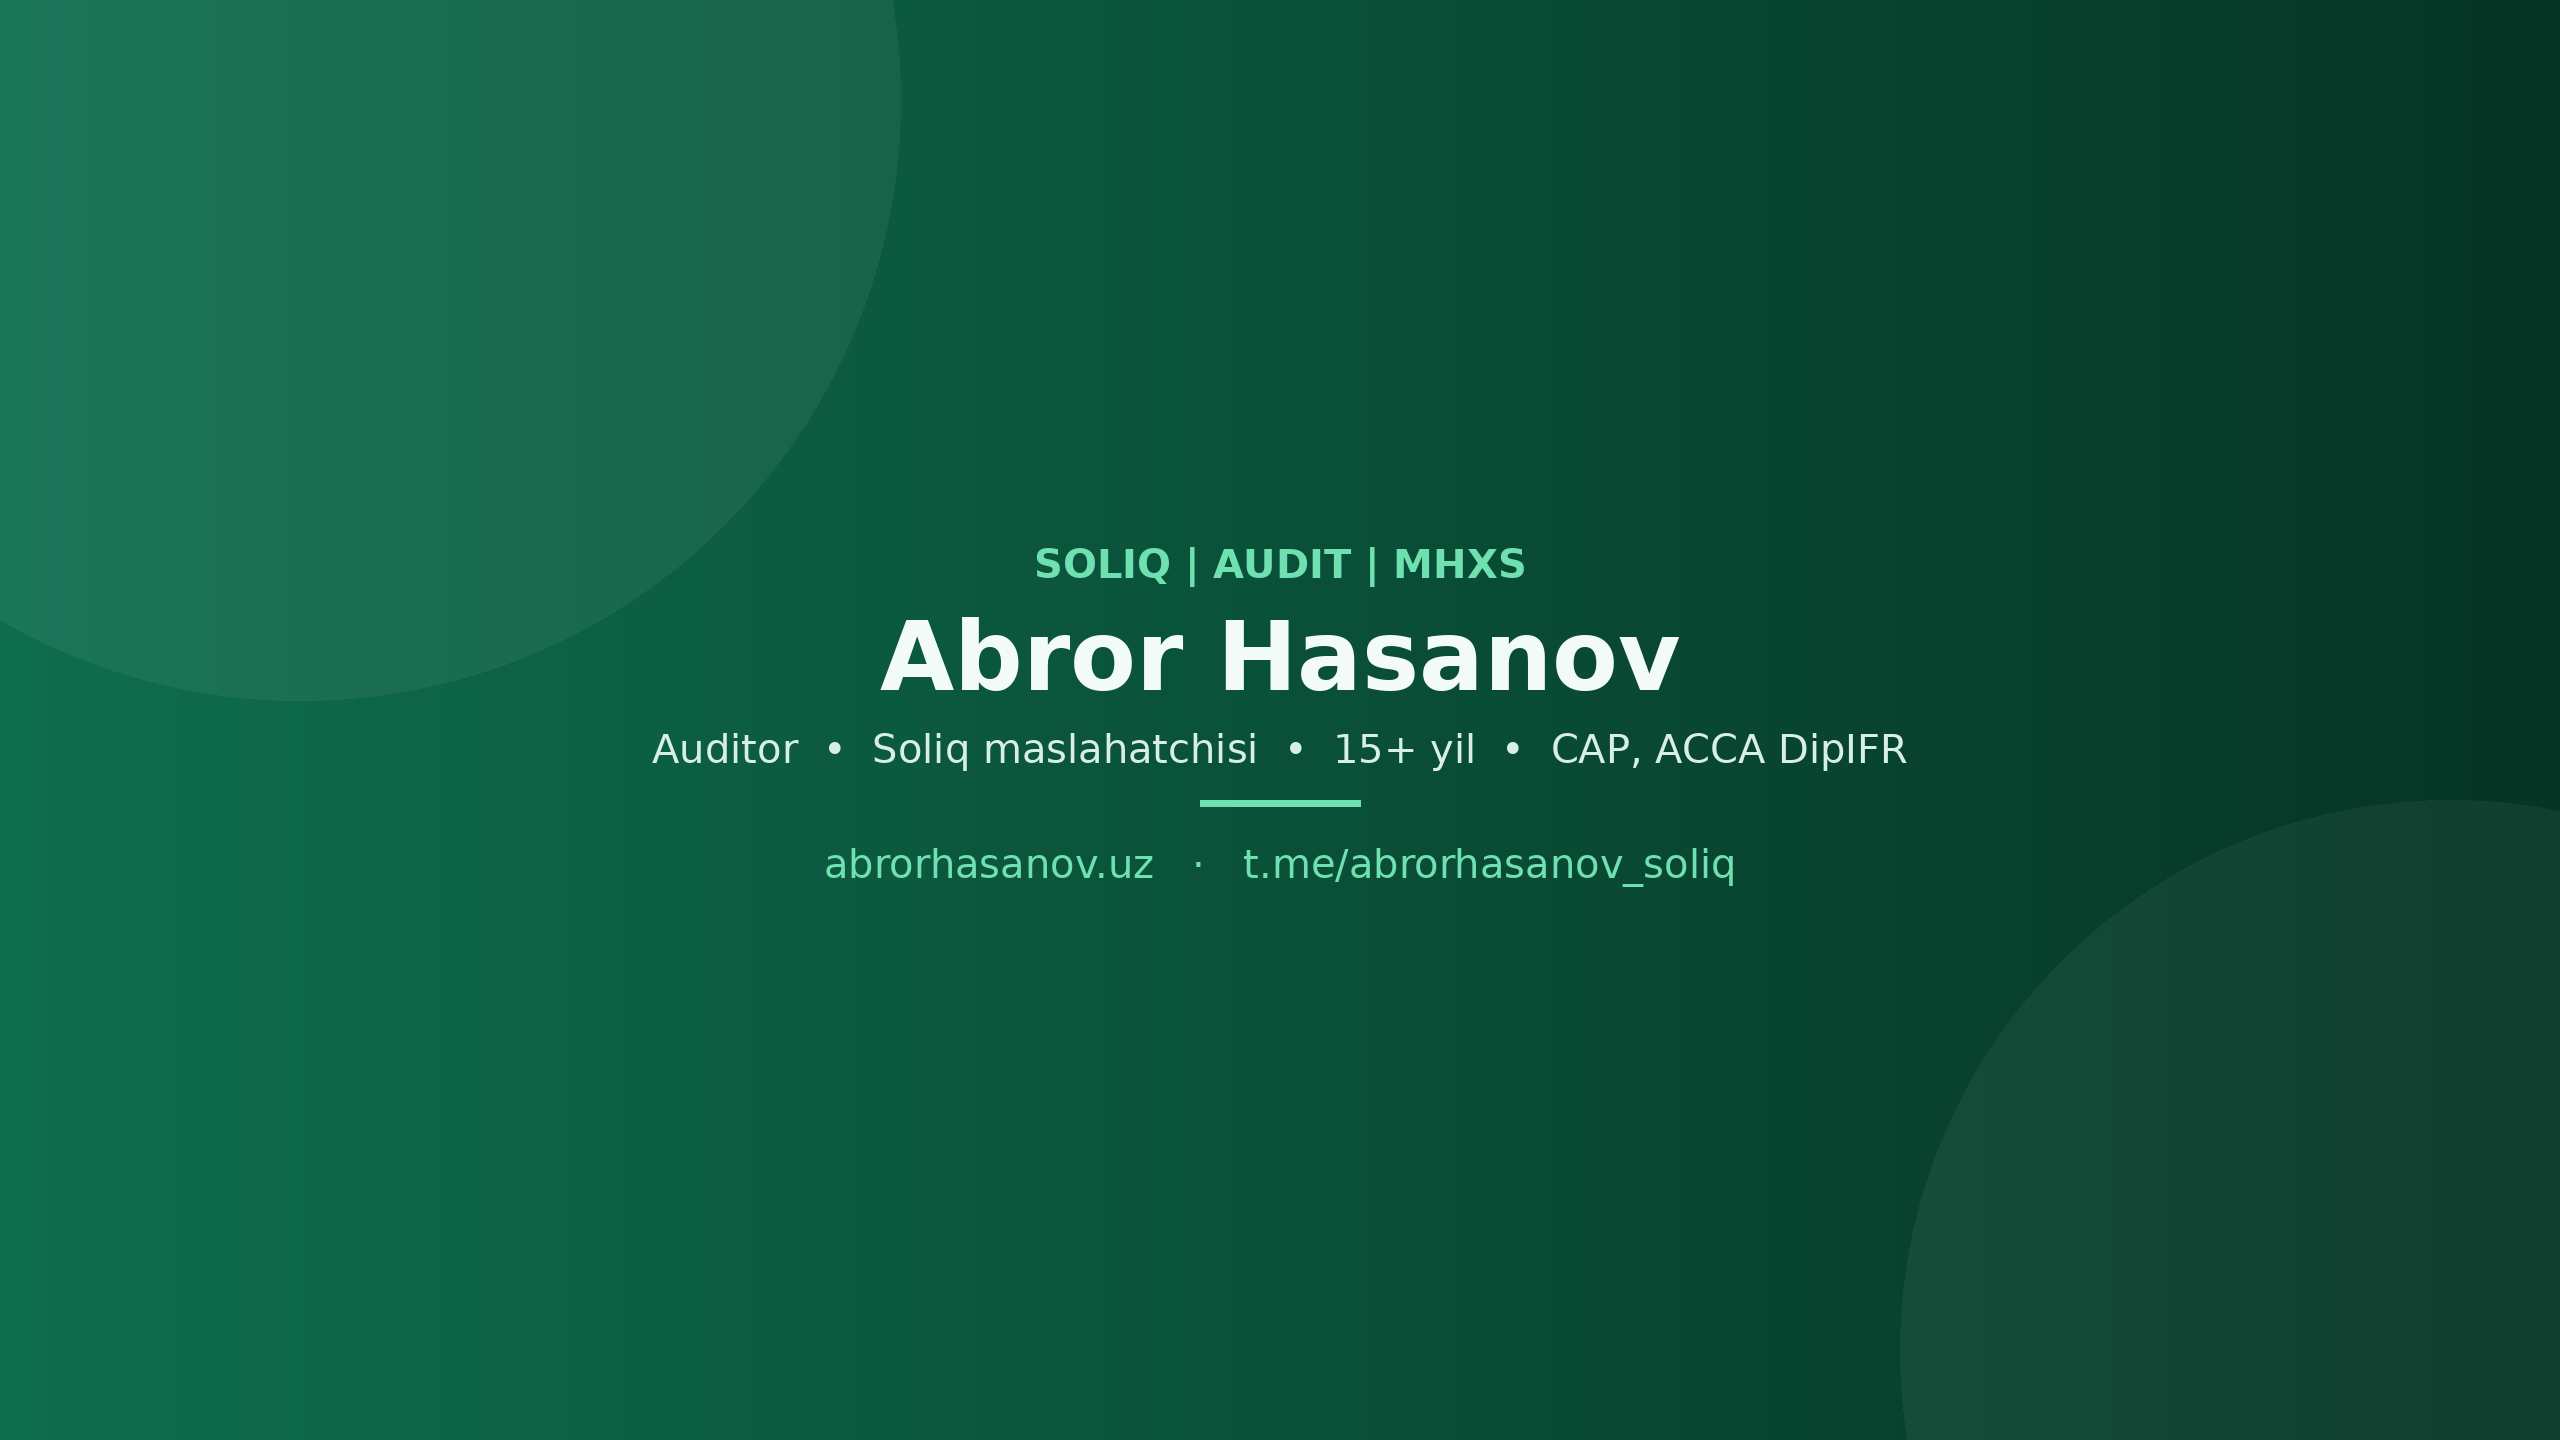
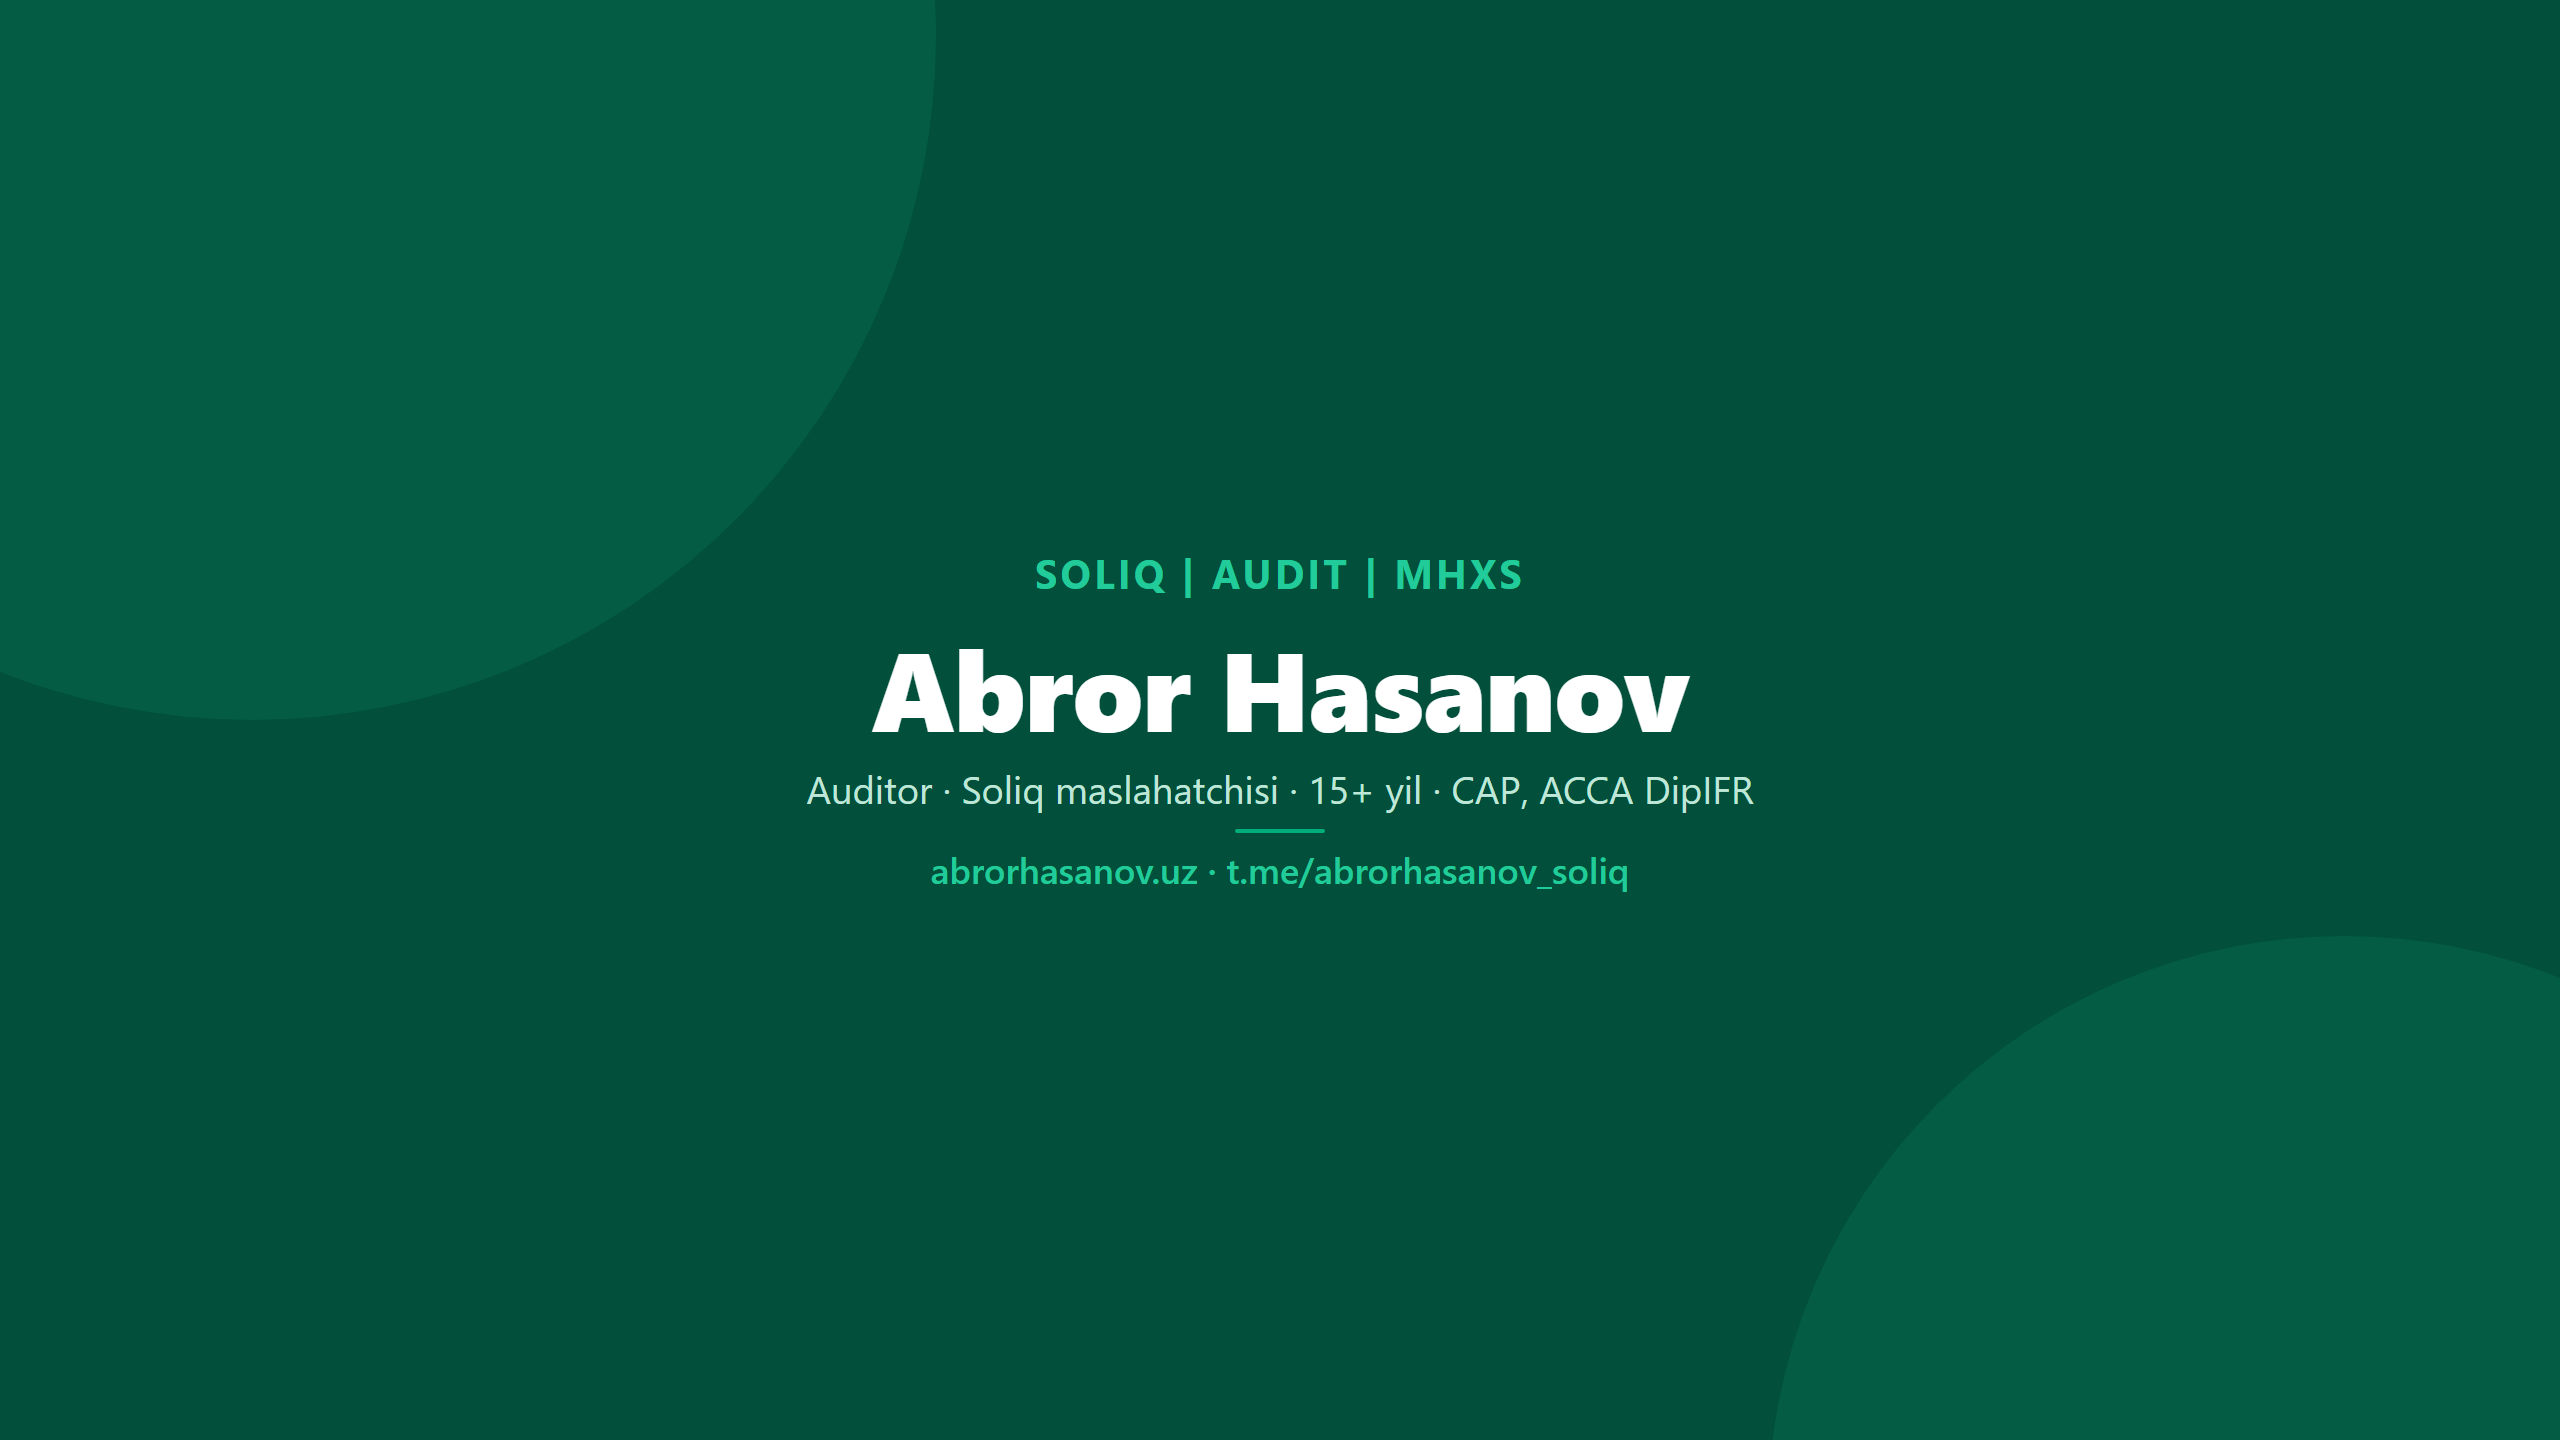
Yangi brend ranglari: zumrad #024F3C, yalpiz #21CB9A
Sayt ranglari, havola rasmi (og.jpg) va YouTube banneri yakuniy palitraga moslandi.

Claude-Session: https://claude.ai/code/session_013X7xtfen8WrGnBmA2eLupK

diff --git a/index.html b/index.html
@@ -3,6 +3,7 @@
 <head>
 <meta charset="utf-8">
 <meta name="viewport" content="width=device-width,initial-scale=1,viewport-fit=cover">
+<meta name="theme-color" content="#024F3C">
 <link rel="canonical" href="https://abrorhasanov.uz/">
 <meta property="og:type" content="profile">
 <meta property="og:url" content="https://abrorhasanov.uz/">
@@ -20,17 +21,17 @@
 <style>
 /* Layout: one calm column, like a well-set ledger page; the business card is the single bold object. */
 :root{
-  --bg:#f2f6f3; --surface:#ffffff; --ink:#0f241b; --muted:#56695f; --line:#d9e4dd;
-  --brand:#0b5a3f; --brand-deep:#073a29; --mint:#5fd3a3; --on-brand:#f2fbf6;
+  --bg:#f3f2f1; --surface:#ffffff; --ink:#093b2f; --muted:#4f6b62; --line:#e0e6e3;
+  --brand:#024f3c; --brand-deep:#013a2c; --mint:#21cb9a; --label:#01875f; --on-brand:#ffffff;
   --display:"Unbounded","Arial Black",system-ui,sans-serif;
   --body:"Onest","Segoe UI",system-ui,-apple-system,sans-serif;
 }
 @media (prefers-color-scheme:dark){:root:not([data-theme="light"]){
-  --bg:#08140f; --surface:#0f211a; --ink:#e6f1eb; --muted:#93aa9e; --line:#1f3a2e;
-  --brand:#0e6a4a; --brand-deep:#08402d; --mint:#6fe0b0; --on-brand:#f2fbf6; color-scheme:dark}}
+  --bg:#012e23; --surface:#024f3c; --ink:#f3f2f1; --muted:#bfe6d7; --line:#066749;
+  --brand:#066749; --brand-deep:#013a2c; --mint:#21cb9a; --label:#21cb9a; --on-brand:#ffffff; color-scheme:dark}}
 :root[data-theme="dark"]{
-  --bg:#08140f; --surface:#0f211a; --ink:#e6f1eb; --muted:#93aa9e; --line:#1f3a2e;
-  --brand:#0e6a4a; --brand-deep:#08402d; --mint:#6fe0b0; --on-brand:#f2fbf6; color-scheme:dark}
+  --bg:#012e23; --surface:#024f3c; --ink:#f3f2f1; --muted:#bfe6d7; --line:#066749;
+  --brand:#066749; --brand-deep:#013a2c; --mint:#21cb9a; --label:#21cb9a; --on-brand:#ffffff; color-scheme:dark}
 *{box-sizing:border-box}
 body{background:var(--bg);color:var(--ink);font-family:var(--body);font-size:16px;line-height:1.6;
   padding-left:max(16px,env(safe-area-inset-left,0px));padding-right:max(16px,env(safe-area-inset-right,0px))}
@@ -38,7 +39,7 @@ a{color:inherit}
 .wrap{max-width:680px;margin:0 auto;padding-block:48px 40px;display:flex;flex-direction:column;gap:56px}
 h1,h2{font-family:var(--display);font-weight:700;text-wrap:balance;margin:0;letter-spacing:-.01em}
 h2{font-size:1.25rem}
-.eyebrow{font-size:.75rem;font-weight:600;letter-spacing:.14em;text-transform:uppercase;color:var(--brand)}
+.eyebrow{font-size:.75rem;font-weight:600;letter-spacing:.14em;text-transform:uppercase;color:var(--label)}
 @media (prefers-color-scheme:dark){:root:not([data-theme="light"]) .eyebrow{color:var(--mint)}}
 :root[data-theme="dark"] .eyebrow{color:var(--mint)}
 section{display:flex;flex-direction:column;gap:18px}
@@ -52,7 +53,7 @@ section{display:flex;flex-direction:column;gap:18px}
 .creds li{font-size:.82rem;font-weight:600;padding:4px 10px;border-radius:999px;border:1px solid var(--line);background:var(--surface)}
 .thesis{font-family:var(--display);font-weight:500;font-size:clamp(1.15rem,3.4vw,1.45rem);line-height:1.35;margin:0;
   border-top:1px solid var(--line);padding-top:28px;text-wrap:balance}
-.thesis b{color:var(--brand);font-weight:700}
+.thesis b{color:var(--label);font-weight:700}
 @media (prefers-color-scheme:dark){:root:not([data-theme="light"]) .thesis b{color:var(--mint)}}
 :root[data-theme="dark"] .thesis b{color:var(--mint)}
 @media (max-width:480px){.hero{grid-template-columns:1fr;justify-items:center;text-align:center}.creds{justify-content:center}}
@@ -78,7 +79,7 @@ section{display:flex;flex-direction:column;gap:18px}
 .about p{margin:0;max-width:62ch}
 .facts{display:grid;grid-template-columns:repeat(3,1fr);gap:1px;background:var(--line);border:1px solid var(--line);border-radius:14px;overflow:hidden}
 .facts div{background:var(--surface);padding:16px;display:flex;flex-direction:column;gap:2px}
-.facts strong{font-family:var(--display);font-size:1.4rem;color:var(--brand);font-variant-numeric:tabular-nums}
+.facts strong{font-family:var(--display);font-size:1.4rem;color:var(--label);font-variant-numeric:tabular-nums}
 @media (prefers-color-scheme:dark){:root:not([data-theme="light"]) .facts strong{color:var(--mint)}}
 :root[data-theme="dark"] .facts strong{color:var(--mint)}
 .facts span{font-size:.85rem;color:var(--muted)}
@@ -92,18 +93,18 @@ section{display:flex;flex-direction:column;gap:18px}
 
 /* Business card — fixed brand look in both themes */
 .card{position:relative;overflow:hidden;aspect-ratio:1.75/1;max-width:100%;border-radius:18px;padding:clamp(18px,4.5vw,30px);
-  background:linear-gradient(135deg,#0d6a4b,#073a29);color:#f2fbf6;display:grid;grid-template-columns:1fr auto;gap:16px;
-  box-shadow:0 18px 40px -18px rgba(7,58,41,.55)}
+  background:linear-gradient(135deg,#066749,#024f3c);color:#ffffff;display:grid;grid-template-columns:1fr auto;gap:16px;
+  box-shadow:0 18px 40px -18px rgba(2,79,60,.55)}
 .card::after{content:"";position:absolute;right:-18%;bottom:-55%;width:70%;aspect-ratio:1;border-radius:50%;background:rgba(255,255,255,.06)}
 .card .top{display:flex;flex-direction:column;gap:2px;z-index:1;min-width:0}
-.card .kicker{font-size:clamp(.58rem,1.6vw,.7rem);letter-spacing:.18em;font-weight:600;color:#6fe0b0}
+.card .kicker{font-size:clamp(.58rem,1.6vw,.7rem);letter-spacing:.18em;font-weight:600;color:#21cb9a}
 .card .nm{font-family:var(--display);font-weight:700;font-size:clamp(1.05rem,3.8vw,1.6rem);line-height:1.15}
 .card .tt{font-size:clamp(.72rem,2.1vw,.9rem);opacity:.85}
 .card .cl{align-self:end;display:flex;flex-direction:column;gap:2px;font-size:clamp(.66rem,1.9vw,.85rem);z-index:1;min-width:0}
 .card .cl span{overflow-wrap:anywhere}
 .card .qr{grid-row:1 / span 2;grid-column:2;align-self:center;background:#fff;padding:8px;border-radius:10px;width:clamp(74px,20vw,118px);z-index:1}
 .card .qr svg{display:block;width:100%;height:auto}
-.card .qr small{display:block;text-align:center;color:#0b3d2c;font-size:.55rem;font-weight:600;margin-top:4px;letter-spacing:.04em}
+.card .qr small{display:block;text-align:center;color:#024f3c;font-size:.55rem;font-weight:600;margin-top:4px;letter-spacing:.04em}
 .card-note{font-size:.88rem;color:var(--muted);margin:0}
 
 /* Contact */
@@ -199,7 +200,7 @@ footer{font-size:.82rem;color:var(--muted);border-top:1px solid var(--line);padd
         <span>✈ @abror_hasanov1</span>
         <span>abrorhasanov.uz</span>
       </div>
-      <div class="qr"><svg xmlns="http://www.w3.org/2000/svg" viewBox="0 0 29 29" aria-hidden="true" class="segno"><path class="qrline" stroke="#0b3d2c" d="M0 0.5h7m1 0h5m2 0h2m1 0h1m3 0h7m-29 1h1m5 0h1m1 0h2m2 0h2m2 0h1m3 0h1m1 0h1m5 0h1m-29 1h1m1 0h3m1 0h1m6 0h1m5 0h1m2 0h1m1 0h3m1 0h1m-29 1h1m1 0h3m1 0h1m2 0h3m2 0h2m1 0h1m2 0h1m1 0h1m1 0h3m1 0h1m-29 1h1m1 0h3m1 0h1m4 0h1m2 0h7m1 0h1m1 0h3m1 0h1m-29 1h1m5 0h1m3 0h1m4 0h1m1 0h1m4 0h1m5 0h1m-29 1h7m1 0h1m1 0h1m1 0h1m1 0h1m1 0h1m1 0h1m1 0h1m1 0h7m-20 1h1m1 0h1m1 0h2m1 0h1m2 0h2m-20 1h1m4 0h3m1 0h3m1 0h1m2 0h1m1 0h3m5 0h2m-28 1h1m2 0h2m2 0h1m1 0h1m1 0h1m5 0h2m3 0h2m1 0h2m-28 1h1m1 0h1m2 0h3m3 0h2m1 0h1m1 0h1m3 0h5m1 0h1m-27 1h2m3 0h1m1 0h1m2 0h1m1 0h1m6 0h2m1 0h1m1 0h2m-26 1h1m1 0h1m1 0h7m2 0h1m1 0h1m2 0h1m1 0h3m2 0h1m1 0h1m-25 1h3m1 0h3m2 0h1m2 0h5m2 0h1m1 0h2m1 0h2m-28 1h3m2 0h1m2 0h6m1 0h1m5 0h2m-24 1h3m2 0h1m2 0h2m1 0h3m1 0h1m2 0h1m5 0h4m-26 1h1m2 0h2m4 0h1m2 0h1m2 0h1m2 0h1m4 0h2m1 0h1m-29 1h1m4 0h1m4 0h2m1 0h2m2 0h2m1 0h1m1 0h3m1 0h1m1 0h1m-29 1h5m1 0h2m3 0h1m1 0h4m2 0h2m4 0h2m1 0h1m-29 1h1m2 0h1m1 0h1m7 0h2m4 0h4m1 0h2m1 0h2m-29 1h1m4 0h2m1 0h2m2 0h1m1 0h4m2 0h5m1 0h1m1 0h1m-21 1h1m1 0h2m2 0h2m1 0h4m3 0h3m-27 1h7m1 0h1m1 0h3m1 0h2m2 0h3m1 0h1m1 0h1m-25 1h1m5 0h1m2 0h1m2 0h4m3 0h2m3 0h2m2 0h1m-29 1h1m1 0h3m1 0h1m7 0h3m2 0h6m2 0h2m-29 1h1m1 0h3m1 0h1m4 0h3m5 0h2m2 0h1m3 0h1m-28 1h1m1 0h3m1 0h1m4 0h1m3 0h2m1 0h8m1 0h1m-28 1h1m5 0h1m1 0h1m2 0h2m1 0h1m1 0h1m2 0h1m1 0h1m2 0h3m1 0h1m-29 1h7m3 0h2m3 0h1m1 0h1m1 0h1m2 0h1m1 0h3"/></svg><small>TELEGRAM</small></div>
+      <div class="qr"><svg xmlns="http://www.w3.org/2000/svg" viewBox="0 0 29 29" aria-hidden="true" class="segno"><path class="qrline" stroke="#024f3c" d="M0 0.5h7m1 0h5m2 0h2m1 0h1m3 0h7m-29 1h1m5 0h1m1 0h2m2 0h2m2 0h1m3 0h1m1 0h1m5 0h1m-29 1h1m1 0h3m1 0h1m6 0h1m5 0h1m2 0h1m1 0h3m1 0h1m-29 1h1m1 0h3m1 0h1m2 0h3m2 0h2m1 0h1m2 0h1m1 0h1m1 0h3m1 0h1m-29 1h1m1 0h3m1 0h1m4 0h1m2 0h7m1 0h1m1 0h3m1 0h1m-29 1h1m5 0h1m3 0h1m4 0h1m1 0h1m4 0h1m5 0h1m-29 1h7m1 0h1m1 0h1m1 0h1m1 0h1m1 0h1m1 0h1m1 0h1m1 0h7m-20 1h1m1 0h1m1 0h2m1 0h1m2 0h2m-20 1h1m4 0h3m1 0h3m1 0h1m2 0h1m1 0h3m5 0h2m-28 1h1m2 0h2m2 0h1m1 0h1m1 0h1m5 0h2m3 0h2m1 0h2m-28 1h1m1 0h1m2 0h3m3 0h2m1 0h1m1 0h1m3 0h5m1 0h1m-27 1h2m3 0h1m1 0h1m2 0h1m1 0h1m6 0h2m1 0h1m1 0h2m-26 1h1m1 0h1m1 0h7m2 0h1m1 0h1m2 0h1m1 0h3m2 0h1m1 0h1m-25 1h3m1 0h3m2 0h1m2 0h5m2 0h1m1 0h2m1 0h2m-28 1h3m2 0h1m2 0h6m1 0h1m5 0h2m-24 1h3m2 0h1m2 0h2m1 0h3m1 0h1m2 0h1m5 0h4m-26 1h1m2 0h2m4 0h1m2 0h1m2 0h1m2 0h1m4 0h2m1 0h1m-29 1h1m4 0h1m4 0h2m1 0h2m2 0h2m1 0h1m1 0h3m1 0h1m1 0h1m-29 1h5m1 0h2m3 0h1m1 0h4m2 0h2m4 0h2m1 0h1m-29 1h1m2 0h1m1 0h1m7 0h2m4 0h4m1 0h2m1 0h2m-29 1h1m4 0h2m1 0h2m2 0h1m1 0h4m2 0h5m1 0h1m1 0h1m-21 1h1m1 0h2m2 0h2m1 0h4m3 0h3m-27 1h7m1 0h1m1 0h3m1 0h2m2 0h3m1 0h1m1 0h1m-25 1h1m5 0h1m2 0h1m2 0h4m3 0h2m3 0h2m2 0h1m-29 1h1m1 0h3m1 0h1m7 0h3m2 0h6m2 0h2m-29 1h1m1 0h3m1 0h1m4 0h3m5 0h2m2 0h1m3 0h1m-28 1h1m1 0h3m1 0h1m4 0h1m3 0h2m1 0h8m1 0h1m-28 1h1m5 0h1m1 0h1m2 0h2m1 0h1m1 0h1m2 0h1m1 0h1m2 0h3m1 0h1m-29 1h7m3 0h2m3 0h1m1 0h1m1 0h1m2 0h1m1 0h3"/></svg><small>TELEGRAM</small></div>
     </div>
     <p class="card-note">QR kodni telefon kamerasi bilan skanerlasangiz, Telegram kanalim ochiladi.</p>
     <a class="save" href="abror-hasanov.vcf" download>Kontaktni telefonga saqlash</a>
